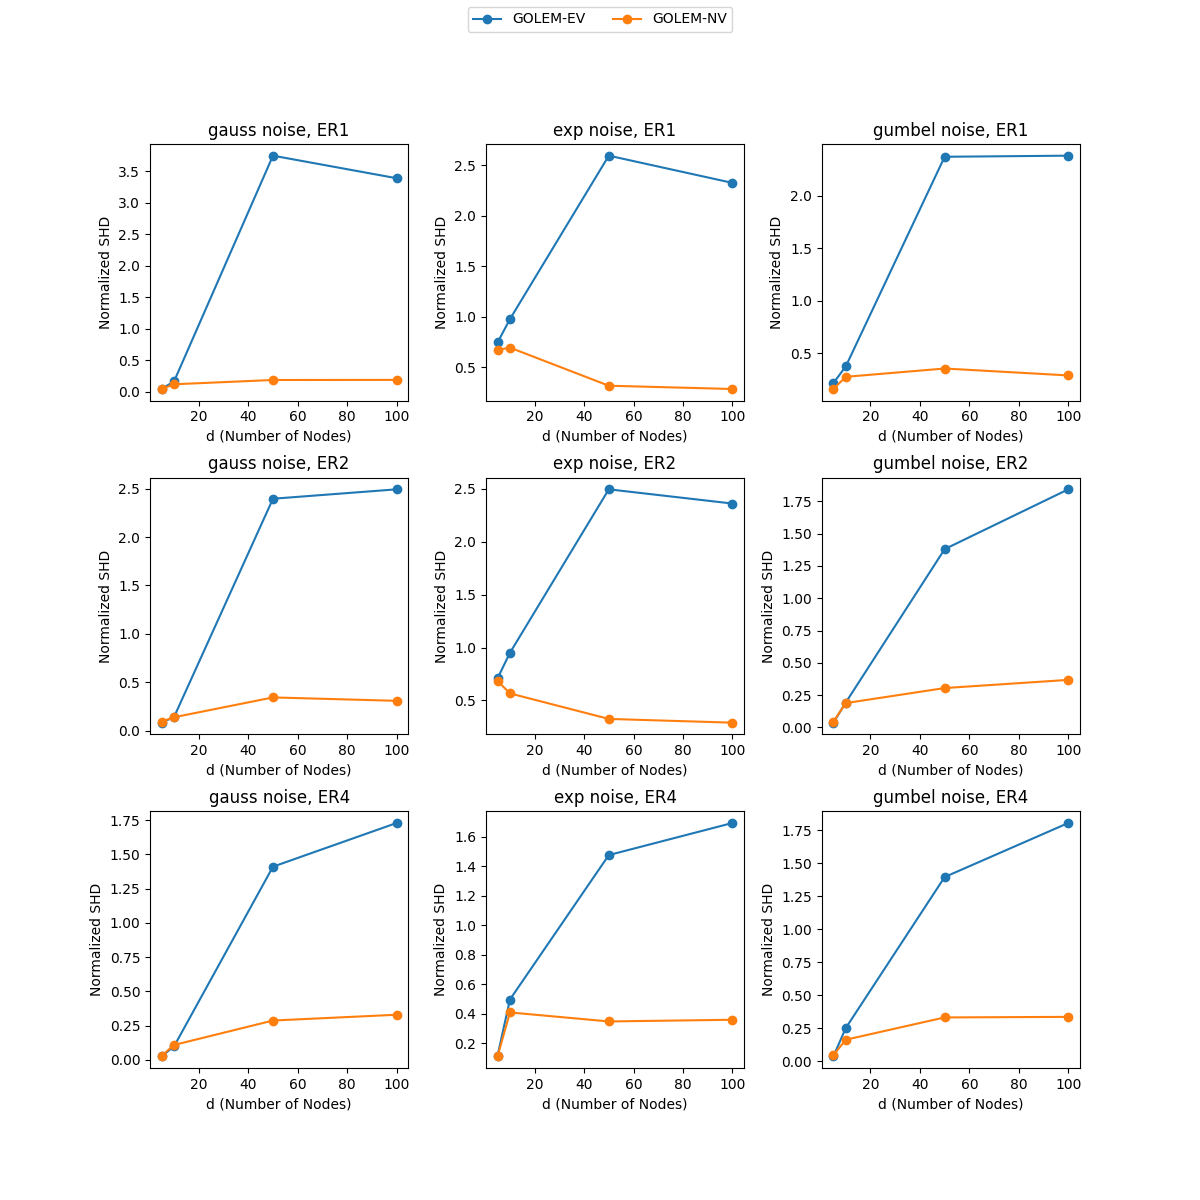
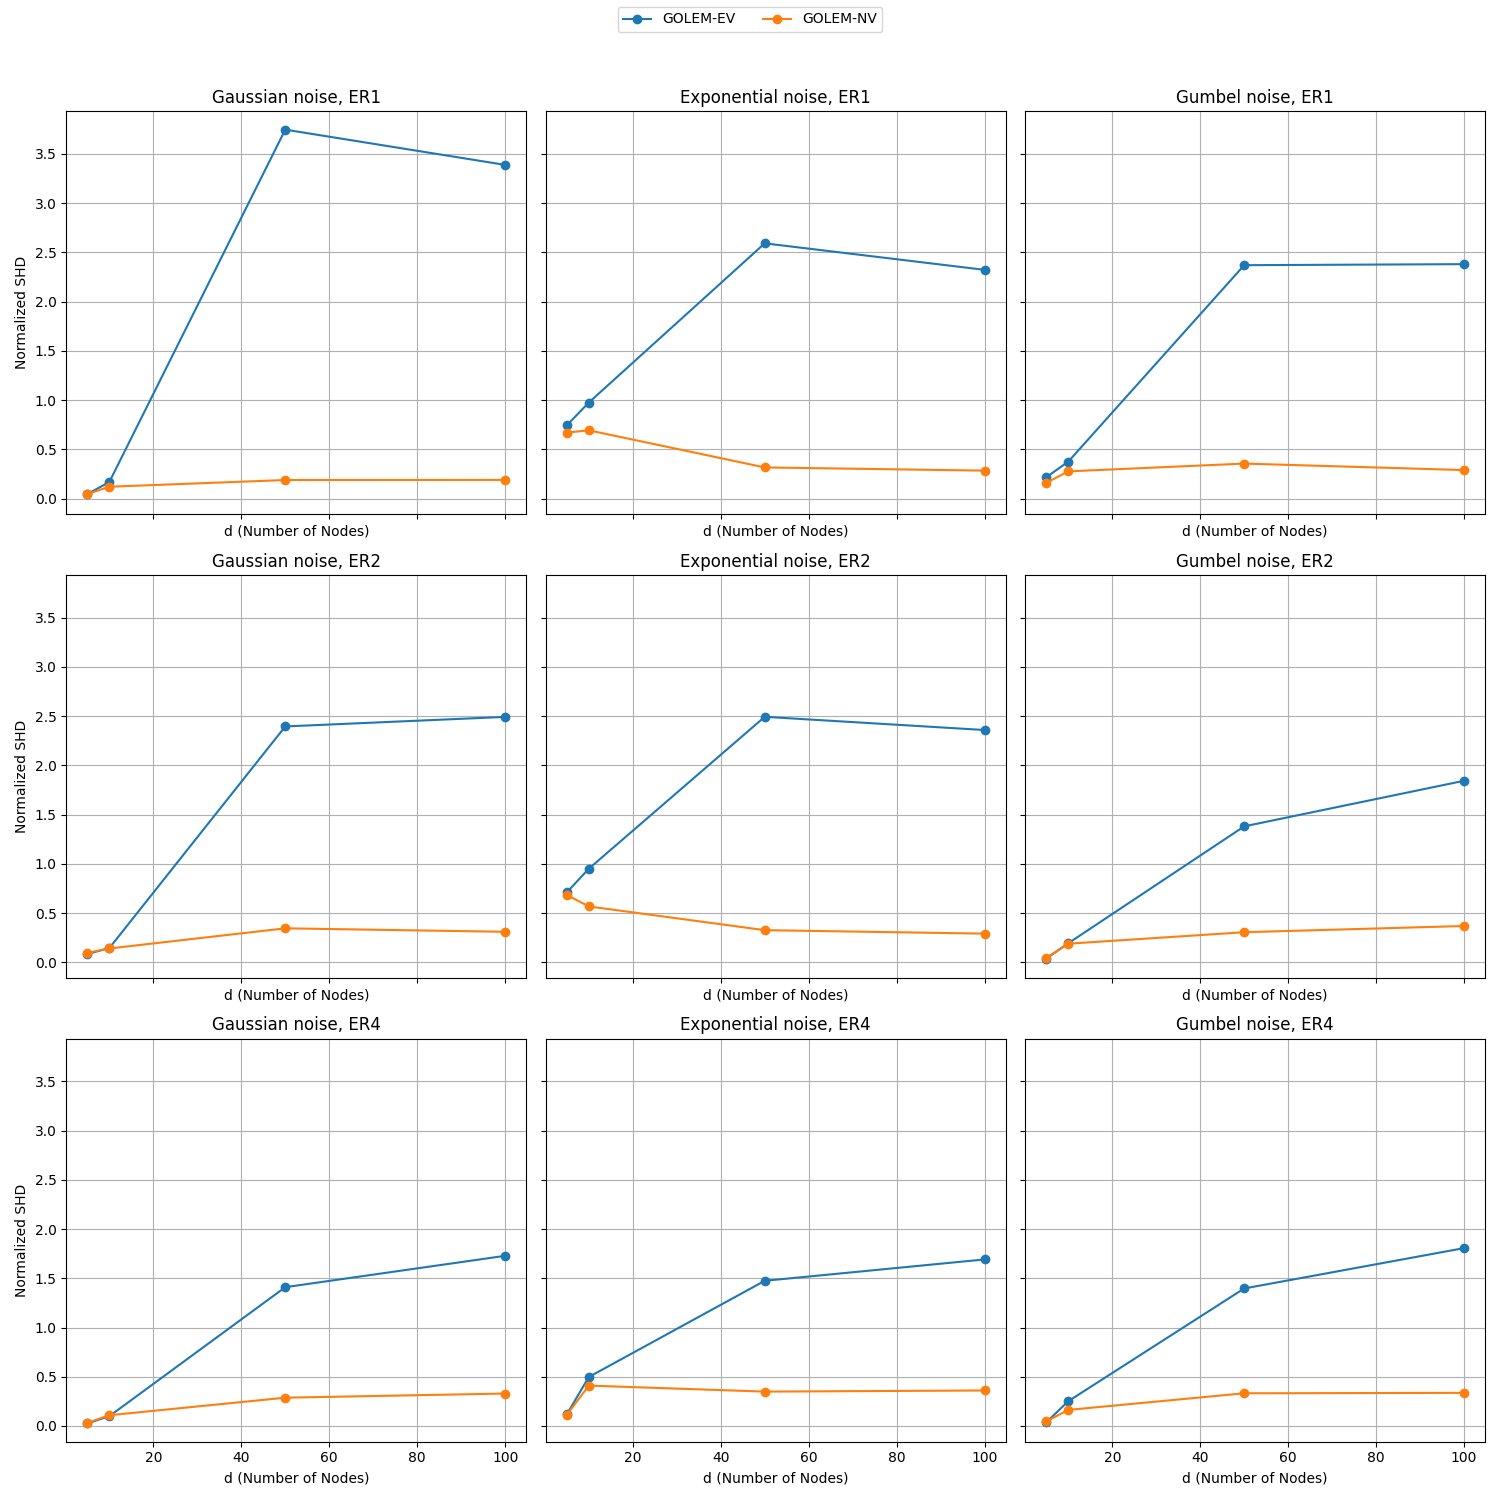
100 trials

diff --git a/examples/reconstruct.py b/examples/reconstruct.py
@@ -1,49 +1,59 @@
 import os
 import glob
 import pandas as pd
+import numpy as np
 import matplotlib.pyplot as plt
 
-fig, axes = plt.subplots(3, 3, figsize=(12, 12))
-fig.subplots_adjust(hspace=0.3, wspace=0.3)
-
-file_pattern = "golem_ER*_noise=*_n=1000_var=random.txt"
-
-files = glob.glob(file_pattern)
-
-files.sort()
-
-row_labels = ["ER1", "ER2", "ER4"]
-col_labels = ["Gaussian noise", "Exponential noise", "Gumbel noise"]
+num_nodes = [5, 10, 50, 100]
+s0_ratios = [1, 2, 4]
+noise_types = ["gauss", "exp", "gumbel"]
+methods = ["GOLEM-EV", "GOLEM-NV"]
 
 noise_names = {
-    'gauss': 'Gaussian',
-    'gumbel': 'Gumbel',
-    'exp': 'Exponential',
+    "gauss": "Gaussian",
+    "exp": "Exponential",
+    "gumbel": "Gumbel"
 }
+
+num_rows = len(s0_ratios)
+num_cols = len(noise_types)
+fig, axes = plt.subplots(num_rows, num_cols, figsize=(15, 5 * num_rows), sharex=True, sharey=True)
+
+file_pattern = "golem_ER*_noise=*_n=1000_var=random.txt"
+files = sorted(glob.glob(file_pattern))
+
+results = {method: {sem: {s0: {d: [] for d in num_nodes} for s0 in s0_ratios} for sem in noise_types} for method in methods}
 
 for file in files:
     base_name = os.path.basename(file)
     parts = base_name.replace("golem_", "").replace("_n=1000_var=random.txt", "").split("_")
-    
-    er_type = parts[0]
+
+    er_type = int(parts[0].replace("ER", ""))
     noise_type = parts[1].split("=")[1]
-    
-    row = row_labels.index(er_type)
-    col = col_labels.index(f"{noise_names[noise_type]} noise")
-    
-    ax = axes[row, col]
-    
+
     df = pd.read_csv(file)
-    
-    for method in df['method'].unique():
+
+    for method in methods:
         sub_df = df[df['method'] == method]
-        ax.plot(sub_df['d'], sub_df['mean_normalized_shd'], marker='o', label=method)
-    
-    ax.set_title(f"{noise_type} noise, {er_type}")
-    ax.set_xlabel("d (Number of Nodes)")
-    ax.set_ylabel("Normalized SHD")
+        for _, row in sub_df.iterrows():
+            d = row["d"]
+            results[method][noise_type][er_type][d].append(row["mean_normalized_shd"])
+
+for i, s0_ratio in enumerate(s0_ratios):
+    for j, noise in enumerate(noise_types):
+        ax = axes[i, j] if num_rows > 1 else axes[j]
+
+        for method in methods:
+            means = [np.mean(results[method][noise][s0_ratio][d]) for d in num_nodes]
+            ax.plot(num_nodes, means, marker="o", label=method)
+
+        ax.set_title(f"{noise_names[noise]} noise, ER{s0_ratio}")
+        ax.set_xlabel("d (Number of Nodes)")
+        if j == 0:
+            ax.set_ylabel("Normalized SHD")
+        ax.grid(True)
 
 handles, labels = ax.get_legend_handles_labels()
-fig.legend(handles, labels, loc='upper center', ncol=2)
-
+fig.legend(handles, labels, loc="upper center", ncol=len(methods))
+plt.tight_layout(rect=[0, 0, 1, 0.95])
 plt.savefig(f"normalized_shd_n=1000_var=random_trials=100.png")
